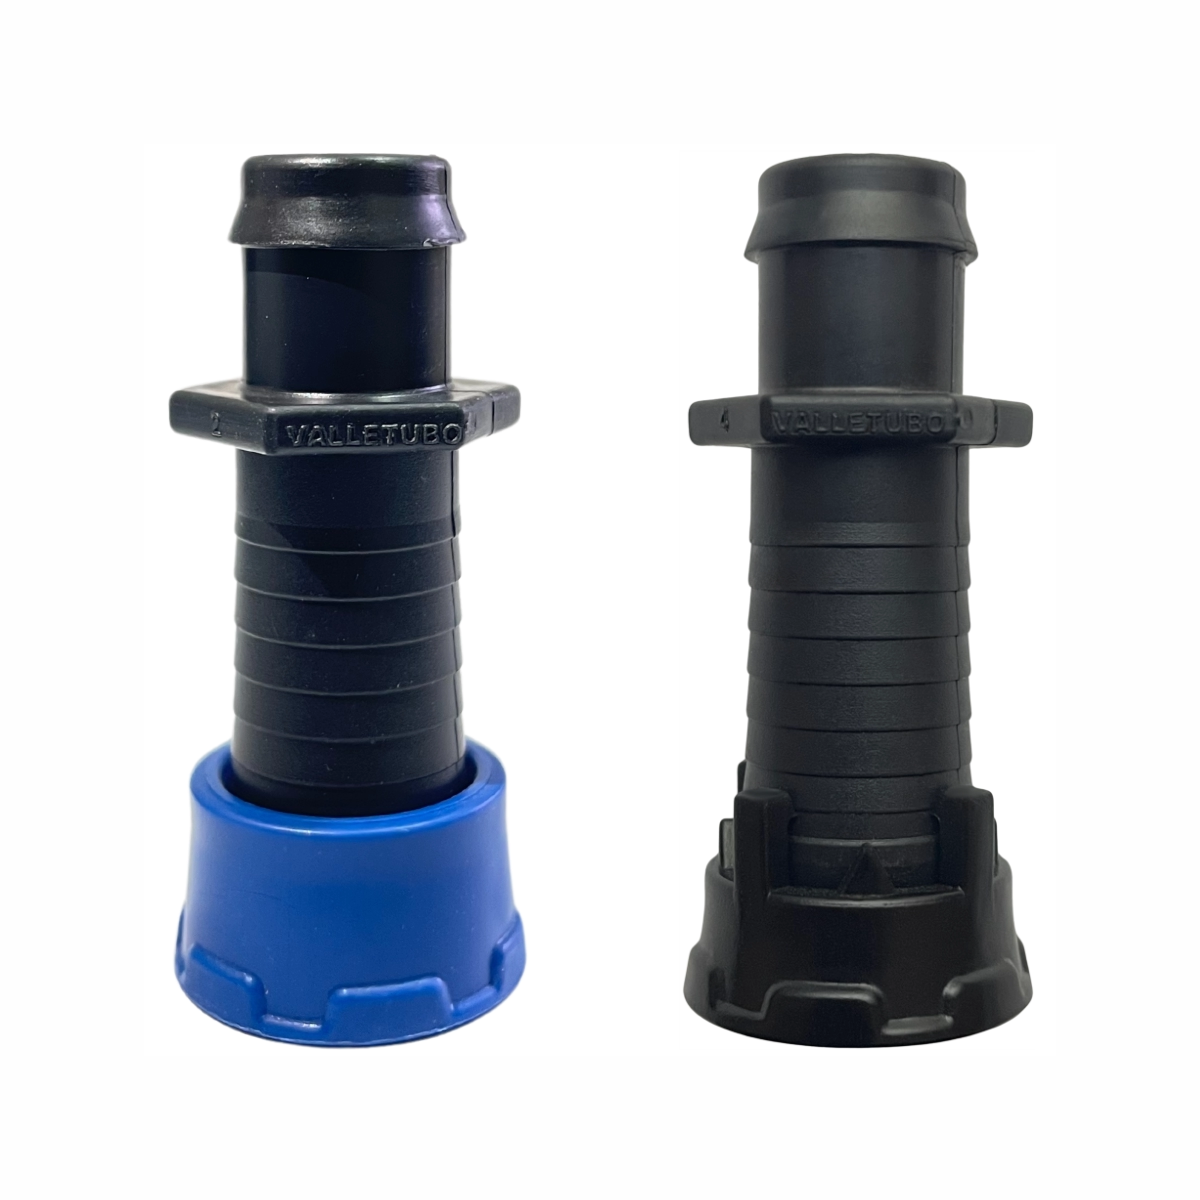
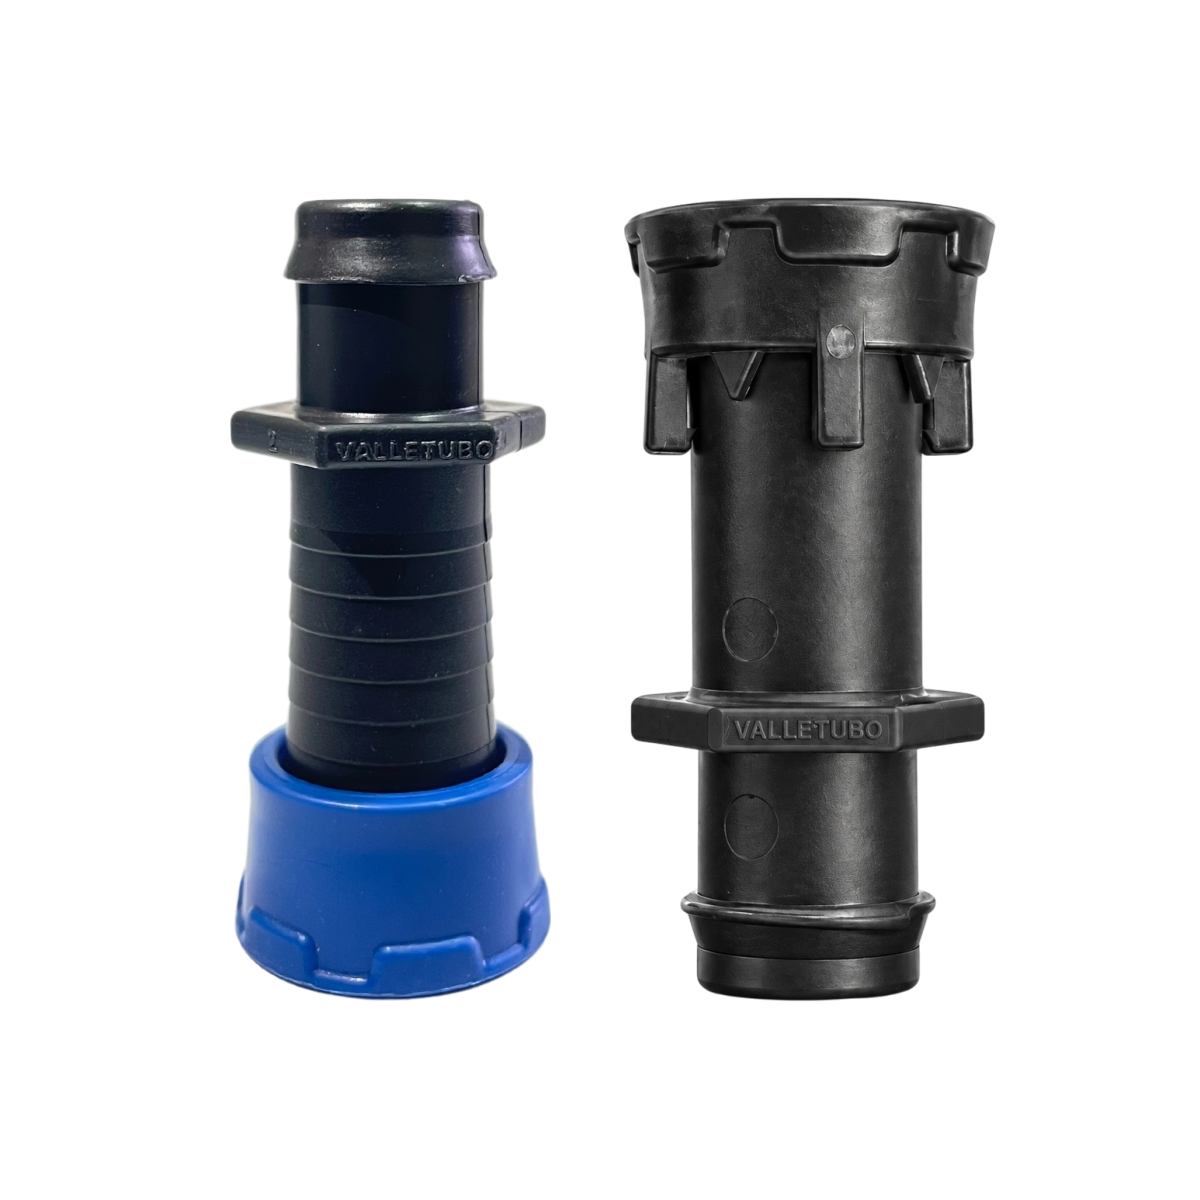
substituindo imagens de conexões.

Changed region(s): [[0.5242, 0.1233, 0.8633, 0.8942], [0.1233, 0.1233, 0.4625, 0.8942]]

diff --git a/src/pages/CatalogoMangueiras.jsx b/src/pages/CatalogoMangueiras.jsx
@@ -105,7 +105,7 @@ const CatalogoMangueiras = () => {
     },
     {
       id: 12,
-      nome: "CONECTOR INICIAL COM ANEL LISO",
+      nome: "CONECTOR INICIAL",
       imagem: "assets/img/conector-inicial.webp",
       descricao: "Conector Inicial",
       especificacoes: ['Variação 1: Anel Liso', 'Variação 2: Anel Garra'],
